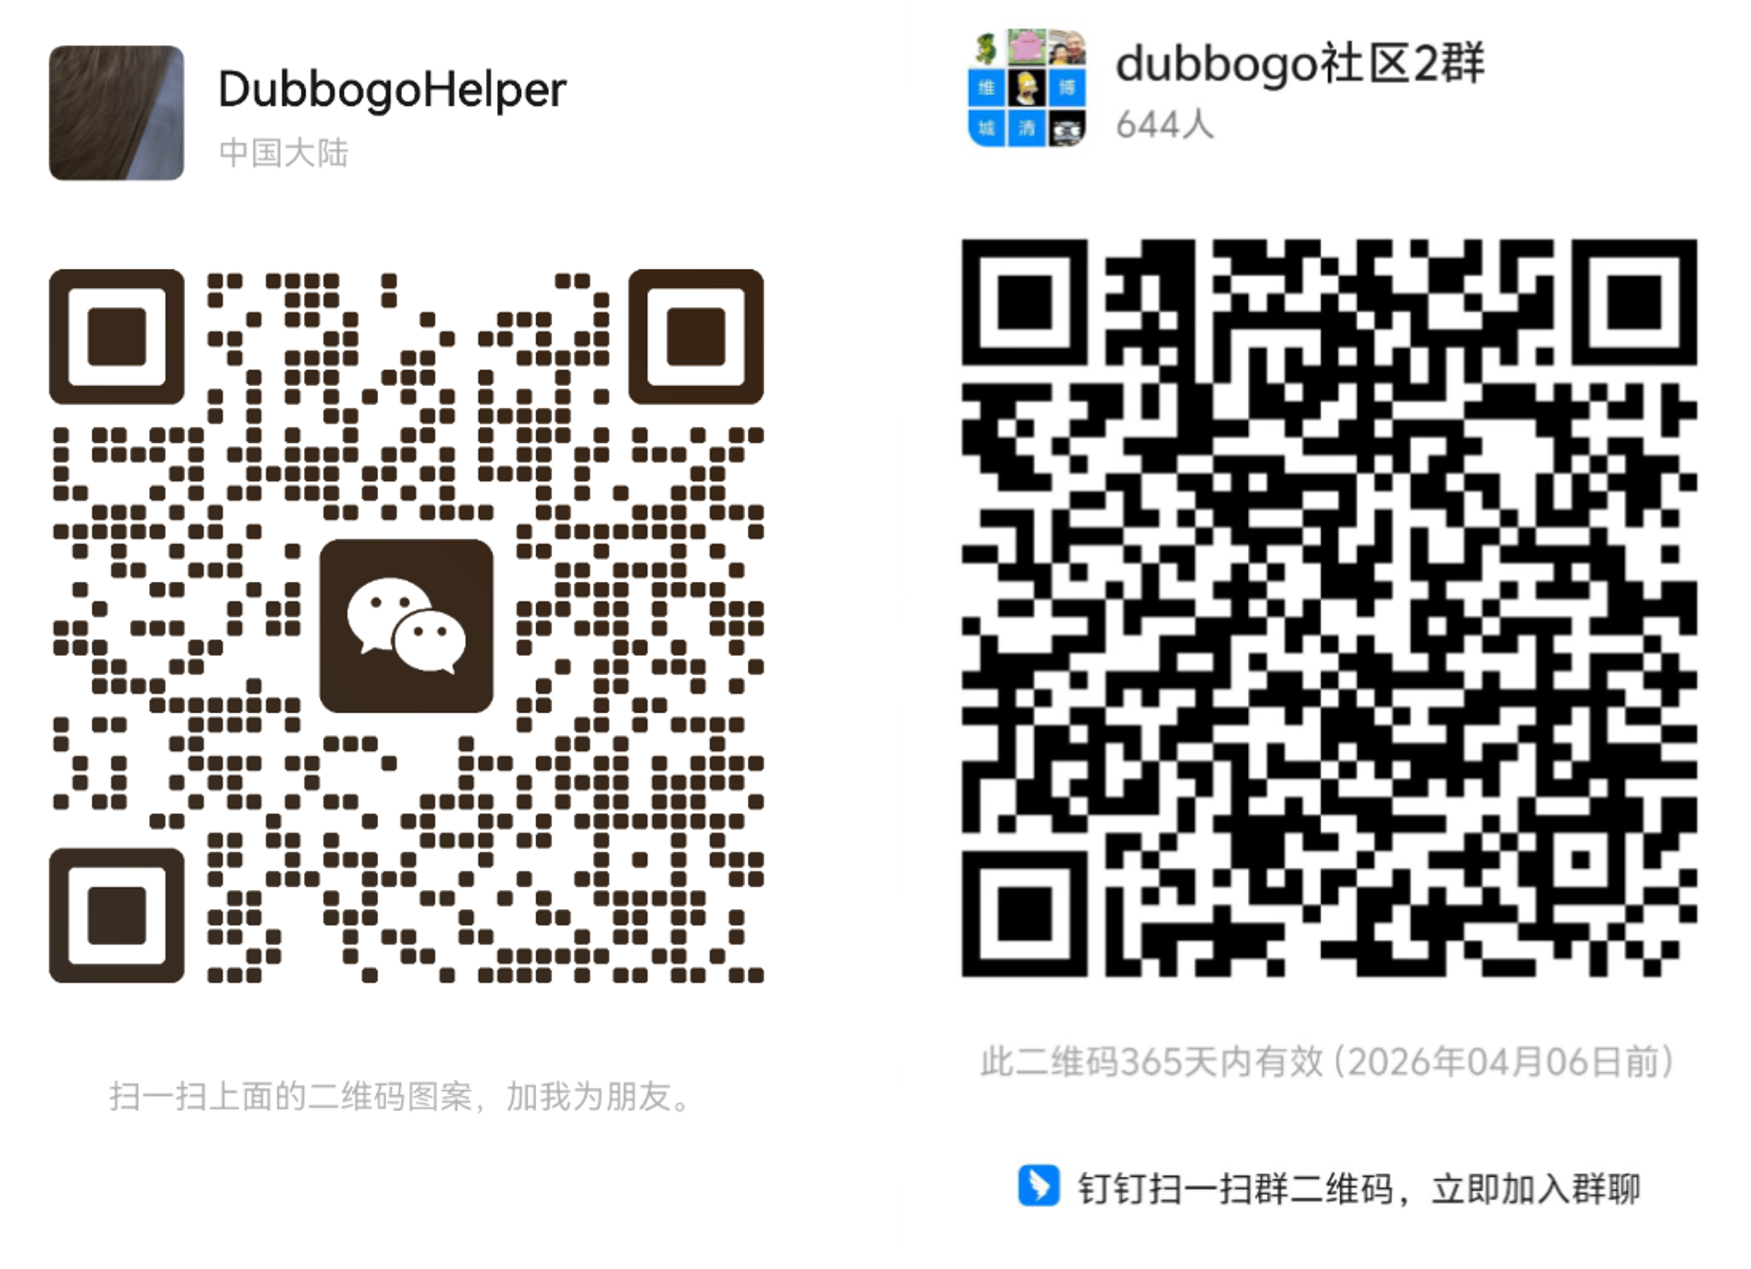
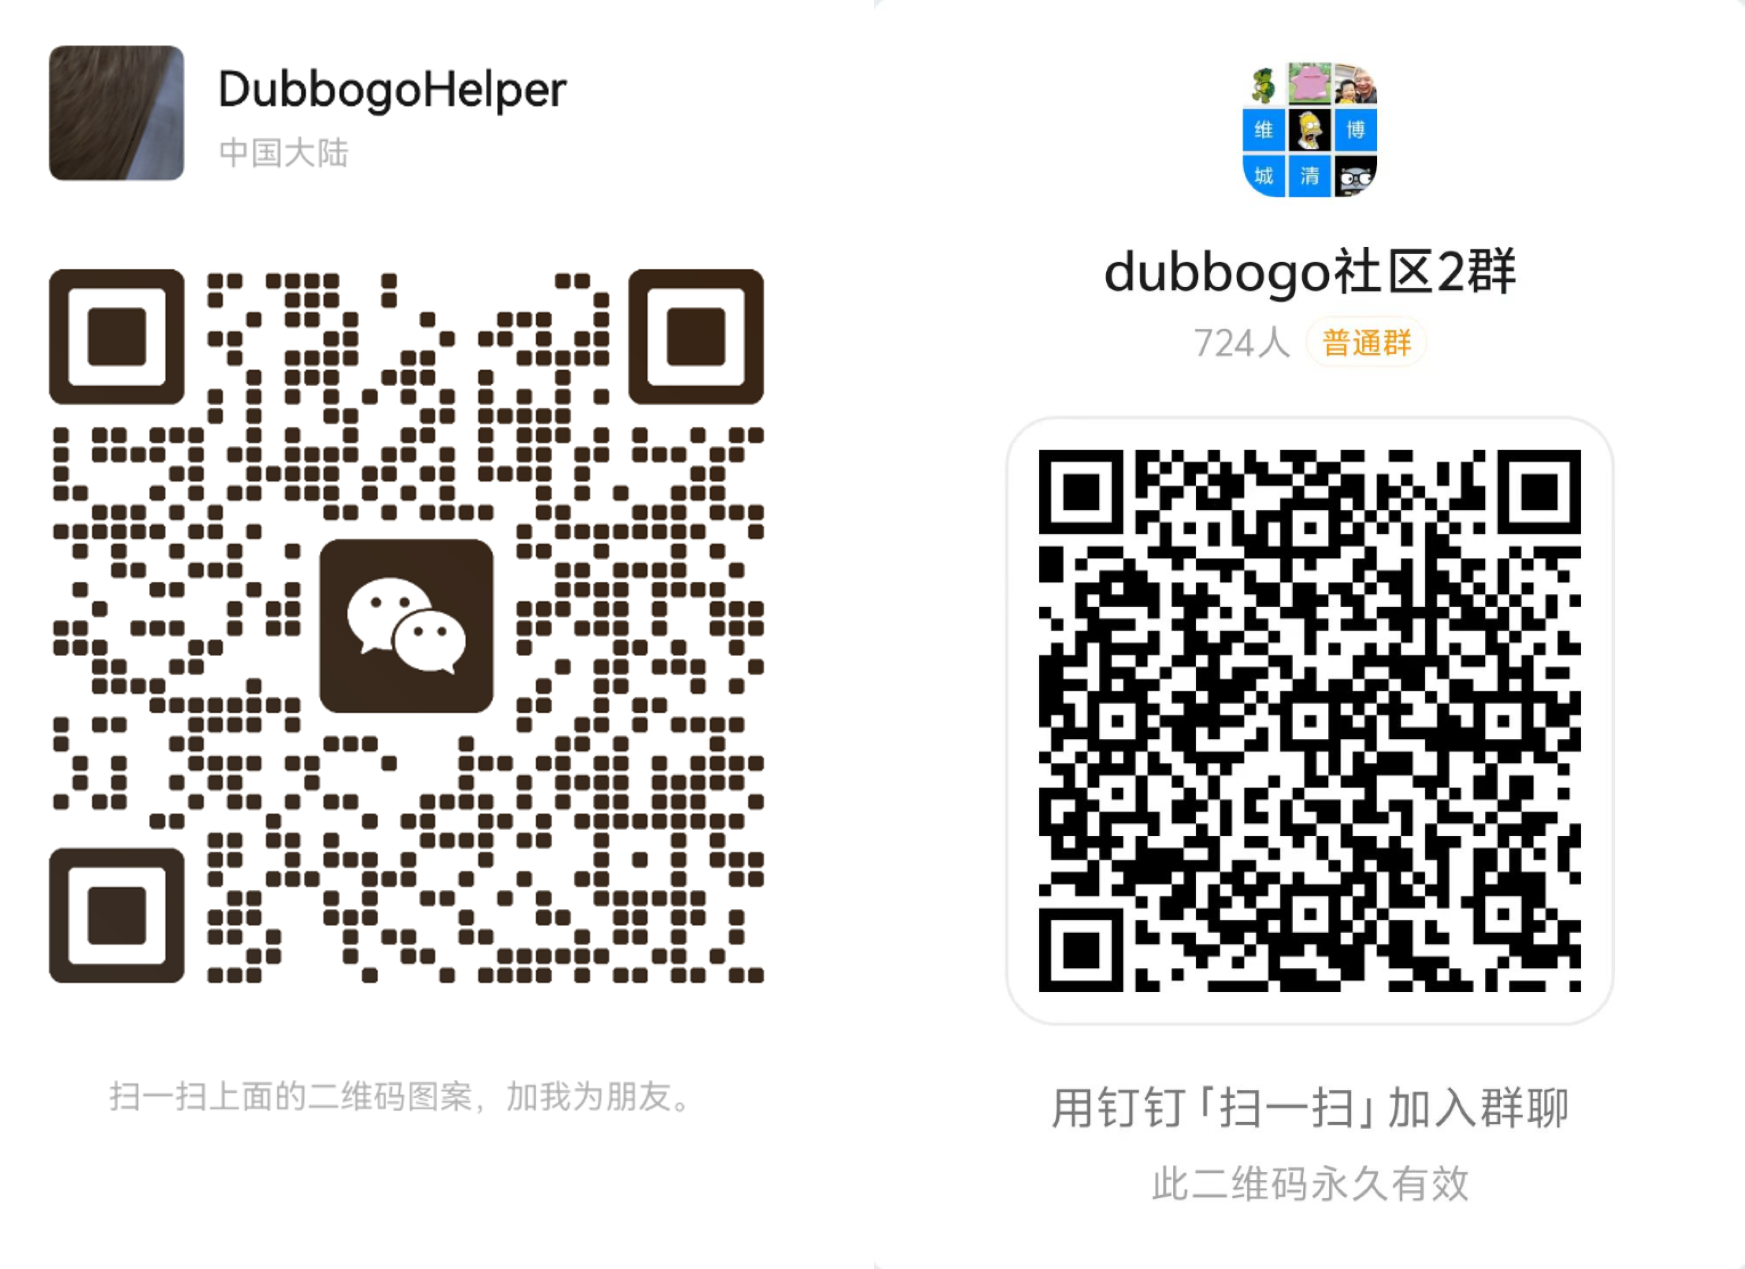
docs: update contact information

diff --git a/README.md b/README.md
@@ -184,9 +184,8 @@ Contributions, issues, and discussions are welcome. Please visit [CONTRIBUTING](
 
 ## Contact
 
-Join our discussion group through Ding talk, WeChat, or Discord.
+Join our discussion group through Ding talk or WeChat.
 
-discord https://discord.gg/C5ywvytg
 ![invite.png](./doc/imgs/invite.png)
 
 

diff --git a/README_CN.md b/README_CN.md
@@ -169,9 +169,8 @@ func main() {
 
 ## 联系我们
 
-通过钉钉、微信或 Discord 加入我们的讨论组。
+通过钉钉或微信加入我们的讨论组。
 
-discord https://discord.gg/C5ywvytg
 ![invite.png](./doc/imgs/invite.png)
 
 
